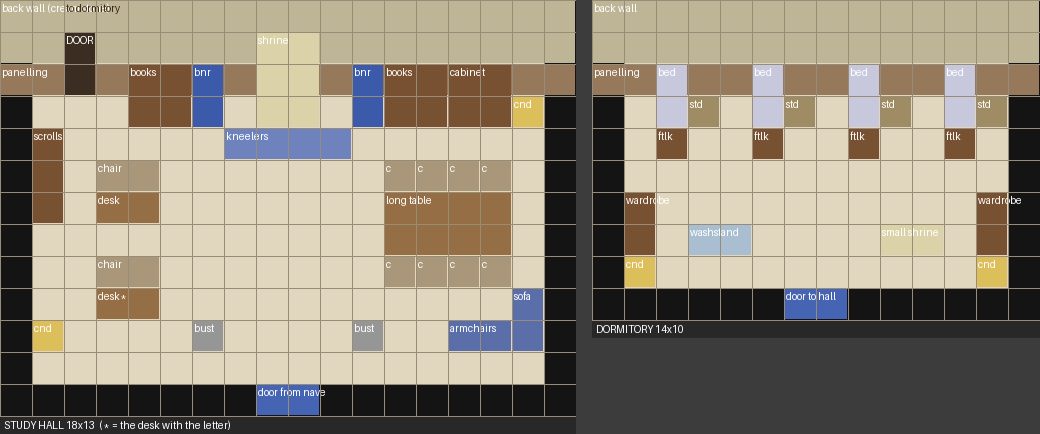
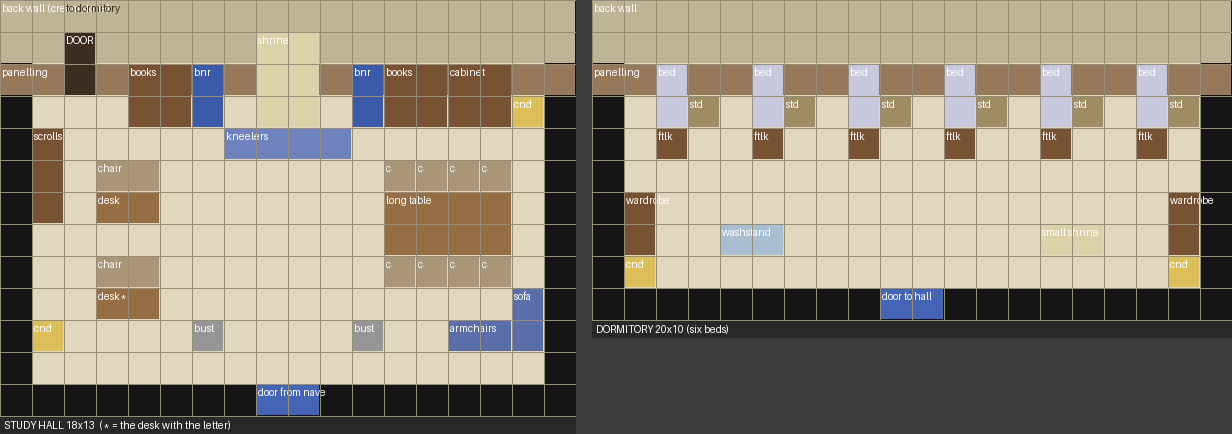
Templar Citadel: bishops' chambers plans approved (dormitory widened for six beds)
Claude-Session: https://claude.ai/code/session_01FHXnfqnedTHLf5QFbB3MCU

diff --git a/tools/art/templar_hq/bishops/bishops_plan.py b/tools/art/templar_hq/bishops/bishops_plan.py
@@ -6,7 +6,7 @@
    scroll racks); discussion and mingling east (a long table with chairs, a sitting corner); the dormitory's door in
    the north wall, west end, past the records. One subtle clue (user): on one clerk's desk, a letter the player can
    read, hinting at the cult-aligned bishops (wording in the story stage).
-2. The dormitory (through the hall's north-west door): one shared sleeping room. 14x10: four beds along the north
+2. The dormitory (through the hall's north-west door): one shared sleeping room. 20x10 (user: six bishops): six beds along the north
    wall (heads to the wall), a bedside stand and a footlocker at each, two wardrobes, a washstand, a small shrine,
    candle stands; the door at the bottom (row 9).
 Usage: python3 bishops_plan.py OUT.png"""
@@ -30,16 +30,18 @@ HALL = (18, 13, [
  (6, 10, 1, 1, (150, 150, 150), 'bust'), (11, 10, 1, 1, (150, 150, 150), 'bust'),
  (8, 12, 2, 1, (70, 100, 180), 'door from nave'),
 ])
-DORM = (14, 10, [
- (0, 0, 14, 2, (190, 180, 150), 'back wall'), (0, 2, 14, 1, (150, 120, 90), 'panelling'),
- (2, 2, 1, 2, (200, 200, 220), 'bed'), (5, 2, 1, 2, (200, 200, 220), 'bed'), (8, 2, 1, 2, (200, 200, 220), 'bed'), (11, 2, 1, 2, (200, 200, 220), 'bed'),
- (2, 4, 1, 1, (120, 80, 50), 'ftlk'), (5, 4, 1, 1, (120, 80, 50), 'ftlk'), (8, 4, 1, 1, (120, 80, 50), 'ftlk'), (11, 4, 1, 1, (120, 80, 50), 'ftlk'),
- (3, 3, 1, 1, (160, 140, 100), 'std'), (6, 3, 1, 1, (160, 140, 100), 'std'), (9, 3, 1, 1, (160, 140, 100), 'std'), (12, 3, 1, 1, (160, 140, 100), 'std'),
- (1, 6, 1, 2, (120, 80, 50), 'wardrobe'), (12, 6, 1, 2, (120, 80, 50), 'wardrobe'),
- (3, 7, 2, 1, (170, 190, 210), 'washstand'),
- (9, 7, 2, 1, (220, 210, 170), 'small shrine'),
- (1, 8, 1, 1, (220, 190, 90), 'cnd'), (12, 8, 1, 1, (220, 190, 90), 'cnd'),
- (6, 9, 2, 1, (70, 100, 180), 'door to hall'),
+DORM = (20, 10, [
+ (0, 0, 20, 2, (190, 180, 150), 'back wall'), (0, 2, 20, 1, (150, 120, 90), 'panelling'),
+ (2, 2, 1, 2, (200, 200, 220), 'bed'), (3, 3, 1, 1, (160, 140, 100), 'std'), (2, 4, 1, 1, (120, 80, 50), 'ftlk'),
+ (5, 2, 1, 2, (200, 200, 220), 'bed'), (6, 3, 1, 1, (160, 140, 100), 'std'), (5, 4, 1, 1, (120, 80, 50), 'ftlk'),
+ (8, 2, 1, 2, (200, 200, 220), 'bed'), (9, 3, 1, 1, (160, 140, 100), 'std'), (8, 4, 1, 1, (120, 80, 50), 'ftlk'),
+ (11, 2, 1, 2, (200, 200, 220), 'bed'), (12, 3, 1, 1, (160, 140, 100), 'std'), (11, 4, 1, 1, (120, 80, 50), 'ftlk'),
+ (14, 2, 1, 2, (200, 200, 220), 'bed'), (15, 3, 1, 1, (160, 140, 100), 'std'), (14, 4, 1, 1, (120, 80, 50), 'ftlk'),
+ (17, 2, 1, 2, (200, 200, 220), 'bed'), (18, 3, 1, 1, (160, 140, 100), 'std'), (17, 4, 1, 1, (120, 80, 50), 'ftlk'),
+ (1, 6, 1, 2, (120, 80, 50), 'wardrobe'), (18, 6, 1, 2, (120, 80, 50), 'wardrobe'),
+ (4, 7, 2, 1, (170, 190, 210), 'washstand'), (14, 7, 2, 1, (220, 210, 170), 'small shrine'),
+ (1, 8, 1, 1, (220, 190, 90), 'cnd'), (18, 8, 1, 1, (220, 190, 90), 'cnd'),
+ (9, 9, 2, 1, (70, 100, 180), 'door to hall'),
 ])
 def draw(spec, title):
     W, H, Z = spec
@@ -54,7 +56,7 @@ def draw(spec, title):
     for y in range(H + 1): d.line((0, y * T, W * T, y * T), fill=(150, 140, 120))
     return im
 def main(out):
-    a = draw(HALL, 'STUDY HALL 18x13  (* = the desk with the letter)'); b = draw(DORM, 'DORMITORY 14x10')
+    a = draw(HALL, 'STUDY HALL 18x13  (* = the desk with the letter)'); b = draw(DORM, 'DORMITORY 20x10 (six beds)')
     im = Image.new('RGB', (a.size[0] + b.size[0] + 16, max(a.size[1], b.size[1])), (60, 60, 60))
     im.paste(a, (0, 0)); im.paste(b, (a.size[0] + 16, 0)); im.save(out)
 if __name__ == '__main__':

diff --git a/bible/20_chapter1_build.md b/bible/20_chapter1_build.md
@@ -254,7 +254,7 @@ Chapter 1 is the template: once its foundations (mechanics, maps, buildings, NPC
     - **Decided (user 2026-11-22):** a dead-end side branch off Route 13's fork (Route 15 east closed by a guard); a curtain wall with an open arch and two guards, no hallway map; the ground **stony with touches of snow** (less snowy than Mirroh or Mt. Mirroh, like Fort Elderflower's paving with drifts). Zone plan v1: `tools/art/templar_hq/layout_sketch.py`. **The church is not Crown's cathedral** (Mirroh's chapel uses it; no other source hack has a second one, survey in `assets/templar_hq_reference/cathedral_options.png`): **the Arceus church from Pokémon Empire's Starlight City** (user-supplied; **credit Pokémon Empire before release**), **its front building only** (user: shed the domed hall behind it): the cross tower, the great dome and the rose-window front, cut at the GBA's scale (the source is a 2x upscale) by `tools/art/templar_hq/church/cut_front.py`, **7x13 tiles, native size** (user). **In Arceus's colours** (user: gold and blue, echoing Arceus): the great dome blue; gold on the ring cradling the cross tower (Arceus's wheel), the dome's ribs, both small dome caps and the cross; cream walls, door and stained glass kept (`colourise.py`; `assets/templar_hq_reference/church_arceus_v1.png`).
     - **The courtyard (mock v6, user 2026-11-22; `tools/art/templar_hq/citadel_mock.py`, `assets/templar_hq_reference/citadel_mock_v6_2x.png`):** built on one axis after studying MonoMyth's and Crown's squares (Watercress Port, Chamomile, Wood Avens, Crown's harbour town: a symmetric axis, the main building raised on a terrace with a centred stair, a framed square, houses in mirrored pairs, nothing scattered) and Fort Elderflower's snow (no trees inside paved courts; pines outside in loose clusters of big and small; broad stepped snow patches in the open stone; walking lines bare). The church on a crenellated terrace, its stair on the axis; **a fountain square** (Crown 3.0's tiered fountain) with **four worn stone Arceus statues on its corners** (the expansion's Arceus follower sprite, its side frame, recoloured to weathered grey stone; the left pair facing left, the right pair right; user); the arch, the road down. **The houses in a dark, deep grey wood** (user: so they stand out; Crown 3.2's timber recoloured, glass and lit windows kept), in mirrored pairs: the Tavern and its twin below, two small houses on ledges above, each up a stair centred on its door. **The west pocket: a sparring ground** (user): a railed yard (Crown's rail fence in the grey wood), MonoMyth's Old Bay target stands, Templars sparring (stage 2). **The east pocket: the Braviary landing ground** (user): a round stone pad inlaid with Arceus's golden wheel (drawn), hay by the wall, **Braviaries moving about in the overworld** (user; the expansion's Braviary follower sprite; stage 2 objects). Access: a 3-wide street runs down from each ledge beside the Tavern and its twin to the square (the user's rule: no squeezing). The gate (mock v6, user 2026-11-22): an open gateway, the curtain wall ending in a round tower each side with nothing across (the wall's top carried over the gap read as a broken wall); outside it a paved apron where the two guards stand, clear of the pines. The landing pad centred in the open square above the Tavern's twin (x 29-33, half a tile down); no hay. **The way east to Route 15 (user 2026-11-22): a whole line of Templar guards across the cleft** (one on each of its three rows) blocks it for now. Spoken to, they say **there has been an incident on Route 15, they are observing the situation, and until something changes nobody is allowed in or out that way** (stage 2: their script; the condition that opens it comes with Route 15's chapter). **The buildings (user 2026-11-22):** the Tavern (lower west), **the barracks** (its twin, lower east), **the armoury** (upper west, above the sparring ground), **the Braviary mews** (upper east, above the landing ground).
     - **Built and walked (2026-11-22):** `MAP_TEMPLAR_CITADEL` (`TemplarCitadel`, 40x40; `tools/art/templar_hq/build_citadel.py` from `citadel_mock.py`; its own tileset pair, 12 palettes, 643 tiles; `MAPSEC_DR_TEMPLAR_HQ`, snow; music for now Route 13's, `MUS_DR_MM_ROUTE15`). **Reached from Route 13's north-east exit by a short fade**, as Hollow Hill's way north reaches Mirroh Gate: triggers on Route 13's top row (x 32-34) warp to the Citadel's road (x 18-20, row 38), and on the Citadel's bottom row back. (A map connection was tried and the Citadel came up scrambled in the game: the engine reloads only the new map's secondary tileset across a connection, since connected maps are meant to share a primary, and draws the neighbour's visible strip with the current map's tiles; the Citadel has its own primary.) Collision: paving and stairs walked on, the landing pad too; cliffs, walls, buildings, statues, the fountain, lamps, fences, targets solid; outside the wall only the road and the guards' apron. **The doors stay shut until the interiors exist** (next). The stair's foot has no lamps: with the statues and the fountain they closed it off from the square. **The line of three Templar guards across the cleft to Route 15 is in** (objects; their line as the user gave it). Walked in the game: from Route 13 in, the gateway, the square, up the church stair to its door, both streets and ledge stairs, the sparring yard, the landing pad, both lower doors, the guards (they block and speak), and back down to Route 13 (`assets/templar_hq_reference/ingame_citadel_walk.png`).
-    - **The Citadel's story (user 2026-11-22; stages 2-4):** it stands in **a stone hollow of the Mirroh mountains**, an **open courtyard** before the church, with **Templars outside in the courtyard and inside the church**. **Loulan** (the Templar the player helped on Route 11) **reappears inside**: she has told Archbishop Ambrose about the player, comes up to them, thanks them again for the Eiscue, and **guides them further in, to the heart of the cathedral**, where **the player first meets Archbishop Ambrose Caymen**, who speaks with them. **The interior has two levels (user 2026-11-22):** the **first floor**, the cathedral as its central room with **four offices around it**, off cloister walks either side (user: **Ambrose's study**, **the Braviary registry**, **the bishops' chambers**, and **the kitchen and storehouse** where the Templars stock food and feed themselves: the prime cathedral's kitchen and stores; floor plan v1, `tools/art/templar_hq/interior_sketch.py`); **the nave from Pokémon Empire's Arceus church interior** (user 2026-11-23, supplied with its tileset; credit Pokémon Empire; mock v2, `tools/art/templar_hq/nave/nave_mock_v2.py`, `assets/templar_hq_reference/nave_mock_v2_2x.png`; a first try from Crown's round hall was set aside): its raised chancel behind a balustrade (the altar where Ambrose waits, the lectern, the communion table, the piano, three great stained-glass windows), **the great window's central light is an Arceus in stained glass** (approved by the user 2026-11-23, from the user's own design, `assets/templar_hq_reference/empire/user_arceus_window_mockup.png`, replacing Empire's robed figure; mock v3, `assets/templar_hq_reference/nave_mock_v3_2x.png`, `arceus_glass_vs_design.png`): **pixel for pixel, each pixel given the Empire glass for what it is** (user: look at each colour of the design and replace that pixel with the stained-glass cell that fits; a try that took the *nearest* colour came out khaki and grey, and the user pointed to Empire's gold cells, (240,184,48)/(243,192,39)): dark pixels Empire's lead; the rest read by hue into a family, white for the body, cream for the halo, yellow for the rays, gold for the wheel, blue, red, teal-green for eyes and jewels, and the design's light and shade picks which of that family's shades, every shade an exact colour of Empire's windows; the light filled solid between its frames so none of the old figure's lead shows through (`tools/art/templar_hq/glass/arceus_glass.py`; tries that re-cut the design into panes looked jumbled and were dropped), a stair down either side of the low window, the nave of pews down the Order's blue carpet; its brick floor and wooden wall tops recoloured to the church's cream stone; **six doors in its south-facing wall faces** (where banners hung; confirmed by the user 2026-11-23): on the chancel, west **the sealed stair to the Sanctum** (a gold grille) and east **Ambrose's study**; at the head of the nave **the bishops' chambers** (west) and **the Braviary registry** (east), then **the kitchen** (west) and **the storehouse** (east). For the kitchen: a stove the user liked, from a MonoMyth house (`assets/templar_hq_reference/empire/monomyth_stove_room.png`; **found in its ROM**: the cabin layouts 0x8864c00 / 0x8866430, `monomyth_stove_found.png`). **Ambrose's study** (behind the chancel's east door, user 2026-11-23; mock v2, `tools/art/templar_hq/study/study_mock.py`, `assets/templar_hq_reference/study_mock_v2_3x.png`; v1 was rejected: it did not read as an office). **Laid out by use** (floor plan v2, `study_plan.py`, approved): 14x12, Crown 7.9's room (user's pick, `study_office_candidates.png`) widened, its wallpaper in the cathedral's cream, its panelling and cream marble kept. **Work:** MonoMyth's writing desk (paper, quill, inkwell, in a dark wood) centred on a widened blue-and-gold rug, **Ambrose's chair behind it** facing the door (Crown 9.3's gold armchair, against the panelling under **the Order's banner with Arceus's wheel**, drawn as in the Sanctum), **two visitor chairs** before it facing him, the walkway from the door straight up to them. **Back wall:** two bookcases west. **Rest (east), for nights he stays in the cathedral:** a bed, head to the wall (Crown 1.18's, white sheets and a blue frame), a small chest at its head as a bedside stand, MonoMyth's chest of drawers for his robes, a pair of folding-screen panels (MonoMyth) at its foot shielding it from the room; the bed is reached from beside it. **Reading (west):** an armchair facing a tea table. **By the door:** two busts on plinths and a candelabra in each corner (Crown 18.1). Credit Crown, MonoMyth. **a stair from the cathedral room up to the Sanctum**, the top of the cross tower (its trio of stained-glass windows and the cross above), known simply as **the Sanctum**. This makes the Citadel the natural place for **the Opal-for-Warding-Ring exchange** (the player carries the Sparkling Opal from Pelluca's shrine); 8d's Ambrose, inspecting the ice ruins in Pelluca, comes after. **Required before Mt. Mirroh (user 2026-11-22):** a Templar on Route 13's trail to Mt. Mirroh turns the player back until they have met Ambrose (stage 4 sets the flag). **Loulan leads the player to the cathedral's altar** (the head of the first floor's central room), where Ambrose waits (user); the Sanctum is for later. **The Sanctum (user 2026-11-22): a special area unlocked later, a place of reflection, and a library**: a holy room to commune with Arceus that is also **a lost repository of knowledge and secret tomes** (its look drawn from the source hacks' libraries and archives: **Fantasma's castle library**, its mapsec 1 layout s001_b68c, the sister of the room Kimaris's chamber was made from; three arched alcoves of books, lecterns with open tomes, a writing desk, candelabras, and **a glowing circle in the floor where the shadow self rises**; recoloured to the church's cream stone, its skull banners to the Order's blue with Arceus's golden wheel, its two narrow windows to stained glass, the circle to the church's gold and glass blue, the cobwebs kept since it is a lost repository; `tools/art/templar_hq/sanctum/sanctum_mock.py`, `assets/templar_hq_reference/sanctum_mock_v1_3x.png`; Fantasma's art is public assets, no credit needed (user 2026-11-22)), with one striking feature: the player can **fight their shadow self**, a copy of the player with **their exact team, slightly above the current level cap**; **winning earns interesting rewards**. **Unlocked by defeating Archbishop Ambrose** in the Archbishop fight of the Ambrose Caymen Arc (14_story_spine.md: Act III closing / Act IV opening, after Osrid foils the bishops' coup; Ambrose with Temperance and Brunhilda), user 2026-11-22. **The shadow-self challenge (user 2026-11-22): an optional quest, three fights in the whole game**, each opened by a condition; the player is **pinged when the Sanctum can be entered again** (how: `[OPEN]`):
+    - **The Citadel's story (user 2026-11-22; stages 2-4):** it stands in **a stone hollow of the Mirroh mountains**, an **open courtyard** before the church, with **Templars outside in the courtyard and inside the church**. **Loulan** (the Templar the player helped on Route 11) **reappears inside**: she has told Archbishop Ambrose about the player, comes up to them, thanks them again for the Eiscue, and **guides them further in, to the heart of the cathedral**, where **the player first meets Archbishop Ambrose Caymen**, who speaks with them. **The interior has two levels (user 2026-11-22):** the **first floor**, the cathedral as its central room with **four offices around it**, off cloister walks either side (user: **Ambrose's study**, **the Braviary registry**, **the bishops' chambers**, and **the kitchen and storehouse** where the Templars stock food and feed themselves: the prime cathedral's kitchen and stores; floor plan v1, `tools/art/templar_hq/interior_sketch.py`); **the nave from Pokémon Empire's Arceus church interior** (user 2026-11-23, supplied with its tileset; credit Pokémon Empire; mock v2, `tools/art/templar_hq/nave/nave_mock_v2.py`, `assets/templar_hq_reference/nave_mock_v2_2x.png`; a first try from Crown's round hall was set aside): its raised chancel behind a balustrade (the altar where Ambrose waits, the lectern, the communion table, the piano, three great stained-glass windows), **the great window's central light is an Arceus in stained glass** (approved by the user 2026-11-23, from the user's own design, `assets/templar_hq_reference/empire/user_arceus_window_mockup.png`, replacing Empire's robed figure; mock v3, `assets/templar_hq_reference/nave_mock_v3_2x.png`, `arceus_glass_vs_design.png`): **pixel for pixel, each pixel given the Empire glass for what it is** (user: look at each colour of the design and replace that pixel with the stained-glass cell that fits; a try that took the *nearest* colour came out khaki and grey, and the user pointed to Empire's gold cells, (240,184,48)/(243,192,39)): dark pixels Empire's lead; the rest read by hue into a family, white for the body, cream for the halo, yellow for the rays, gold for the wheel, blue, red, teal-green for eyes and jewels, and the design's light and shade picks which of that family's shades, every shade an exact colour of Empire's windows; the light filled solid between its frames so none of the old figure's lead shows through (`tools/art/templar_hq/glass/arceus_glass.py`; tries that re-cut the design into panes looked jumbled and were dropped), a stair down either side of the low window, the nave of pews down the Order's blue carpet; its brick floor and wooden wall tops recoloured to the church's cream stone; **six doors in its south-facing wall faces** (where banners hung; confirmed by the user 2026-11-23): on the chancel, west **the sealed stair to the Sanctum** (a gold grille) and east **Ambrose's study**; at the head of the nave **the bishops' chambers** (west) and **the Braviary registry** (east), then **the kitchen** (west) and **the storehouse** (east). For the kitchen: a stove the user liked, from a MonoMyth house (`assets/templar_hq_reference/empire/monomyth_stove_room.png`; **found in its ROM**: the cabin layouts 0x8864c00 / 0x8866430, `monomyth_stove_found.png`). **Ambrose's study** (behind the chancel's east door, user 2026-11-23; mock v2, `tools/art/templar_hq/study/study_mock.py`, `assets/templar_hq_reference/study_mock_v2_3x.png`; v1 was rejected: it did not read as an office). **Laid out by use** (floor plan v2, `study_plan.py`, approved): 14x12, Crown 7.9's room (user's pick, `study_office_candidates.png`) widened, its wallpaper in the cathedral's cream, its panelling and cream marble kept. **Work:** MonoMyth's writing desk (paper, quill, inkwell, in a dark wood) centred on a widened blue-and-gold rug, **Ambrose's chair behind it** facing the door (Crown 9.3's gold armchair, against the panelling under **the Order's banner with Arceus's wheel**, drawn as in the Sanctum), **two visitor chairs** before it facing him, the walkway from the door straight up to them. **Back wall:** two bookcases west. **Rest (east), for nights he stays in the cathedral:** a bed, head to the wall (Crown 1.18's, white sheets and a blue frame), a small chest at its head as a bedside stand, MonoMyth's chest of drawers for his robes, a pair of folding-screen panels (MonoMyth) at its foot shielding it from the room; the bed is reached from beside it. **Reading (west):** an armchair facing a tea table. **By the door:** two busts on plinths and a candelabra in each corner (Crown 18.1). Credit Crown, MonoMyth. **The bishops' chambers** (behind the nave's west door at its head; user 2026-11-23; floor plans v1, approved, `tools/art/templar_hq/bishops/bishops_plan.py`, `assets/templar_hq_reference/bishops_plan_v1.png`): **two rooms.** **The study hall** (18x13, entered from the nave): the bishops' day room for **prayer, discussion and day-to-day record keeping**, where **visiting diplomats and notables mingle** (anything needing real discretion goes to Ambrose's study instead): a small shrine with kneelers at its head on the axis from the door, between two banners; records west (two clerks' desks, bookcases, scroll racks); discussion east (a long table seating eight, a sitting corner with a sofa and armchairs); **the dormitory's door** in the north wall's west end. **One subtle clue** to the cult-aligned bishops (user): a letter the player can read on the lower clerk's desk (wording `[OPEN]`, story stage). **The dormitory** (20x10): a **shared sleeping room for the six bishops** (user), six beds along the north wall each with a bedside stand and a footlocker, two wardrobes, a washstand, a small shrine, candle stands; its door back to the hall at the bottom. **a stair from the cathedral room up to the Sanctum**, the top of the cross tower (its trio of stained-glass windows and the cross above), known simply as **the Sanctum**. This makes the Citadel the natural place for **the Opal-for-Warding-Ring exchange** (the player carries the Sparkling Opal from Pelluca's shrine); 8d's Ambrose, inspecting the ice ruins in Pelluca, comes after. **Required before Mt. Mirroh (user 2026-11-22):** a Templar on Route 13's trail to Mt. Mirroh turns the player back until they have met Ambrose (stage 4 sets the flag). **Loulan leads the player to the cathedral's altar** (the head of the first floor's central room), where Ambrose waits (user); the Sanctum is for later. **The Sanctum (user 2026-11-22): a special area unlocked later, a place of reflection, and a library**: a holy room to commune with Arceus that is also **a lost repository of knowledge and secret tomes** (its look drawn from the source hacks' libraries and archives: **Fantasma's castle library**, its mapsec 1 layout s001_b68c, the sister of the room Kimaris's chamber was made from; three arched alcoves of books, lecterns with open tomes, a writing desk, candelabras, and **a glowing circle in the floor where the shadow self rises**; recoloured to the church's cream stone, its skull banners to the Order's blue with Arceus's golden wheel, its two narrow windows to stained glass, the circle to the church's gold and glass blue, the cobwebs kept since it is a lost repository; `tools/art/templar_hq/sanctum/sanctum_mock.py`, `assets/templar_hq_reference/sanctum_mock_v1_3x.png`; Fantasma's art is public assets, no credit needed (user 2026-11-22)), with one striking feature: the player can **fight their shadow self**, a copy of the player with **their exact team, slightly above the current level cap**; **winning earns interesting rewards**. **Unlocked by defeating Archbishop Ambrose** in the Archbishop fight of the Ambrose Caymen Arc (14_story_spine.md: Act III closing / Act IV opening, after Osrid foils the bishops' coup; Ambrose with Temperance and Brunhilda), user 2026-11-22. **The shadow-self challenge (user 2026-11-22): an optional quest, three fights in the whole game**, each opened by a condition; the player is **pinged when the Sanctum can be entered again** (how: `[OPEN]`):
       1. after first defeating Ambrose (the Ambrose Caymen Arc);
       2. after speaking with **Alban** again once the **Wo-Chien incident at the Alban estate** is dealt with (the Trial 6 chapter: Indrid Alban, House Alban; Wo-Chien is the Treasure bound to the tablets);
       3. after conquering **all nine Trials**.
